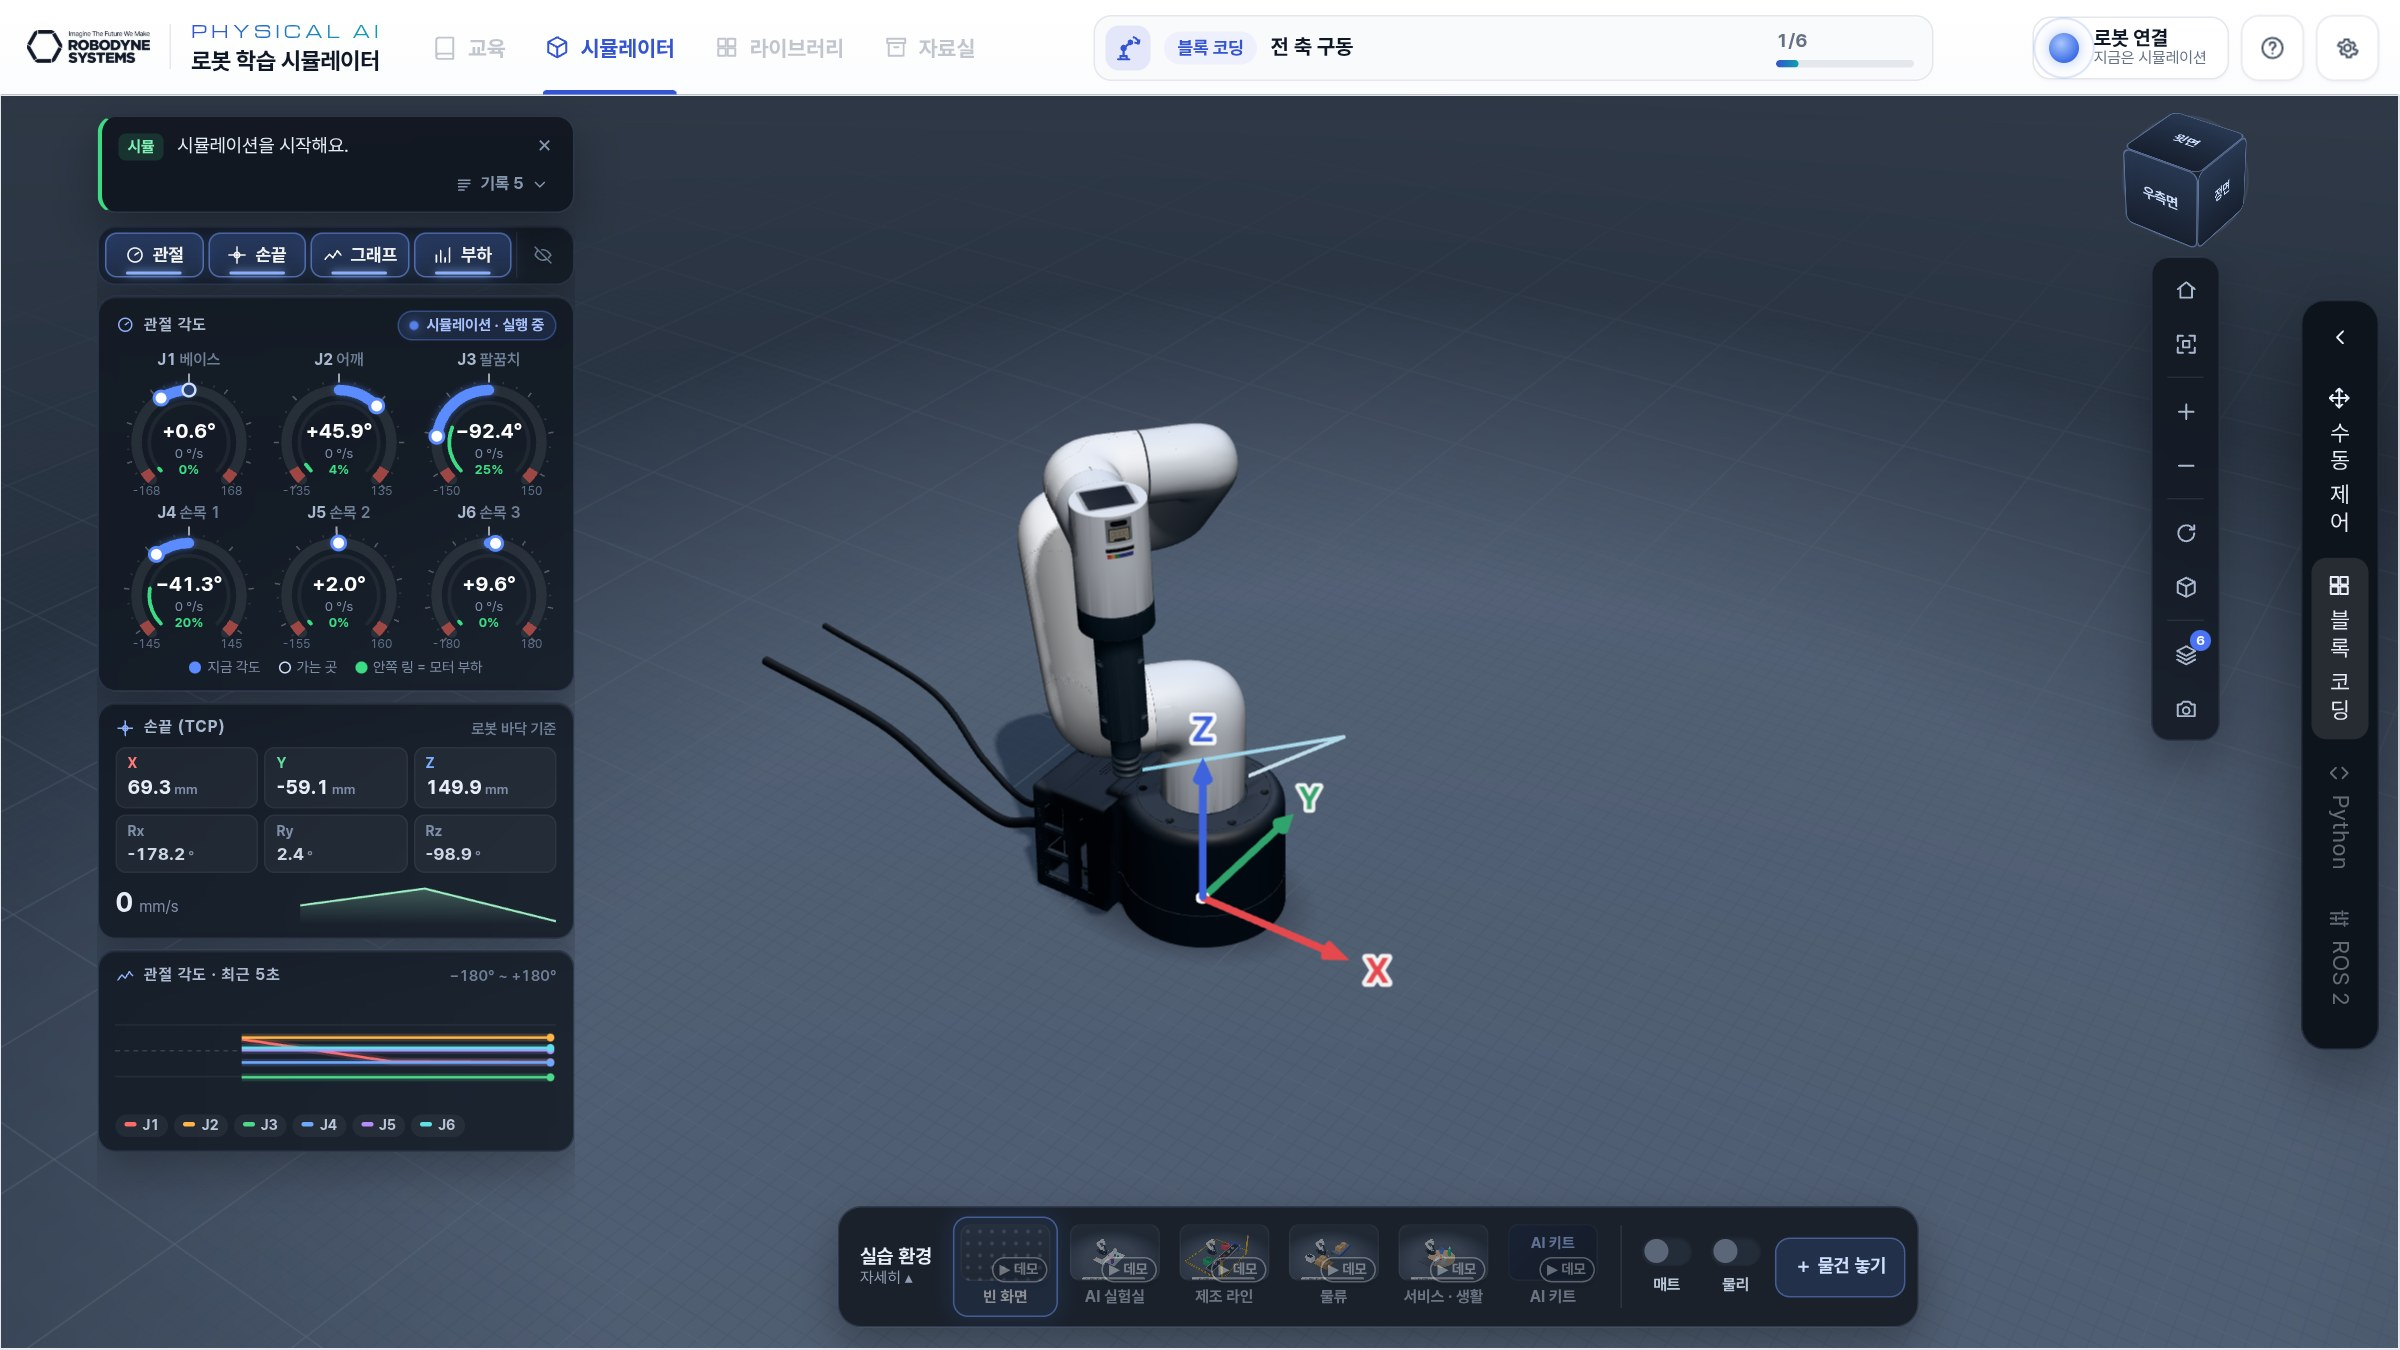
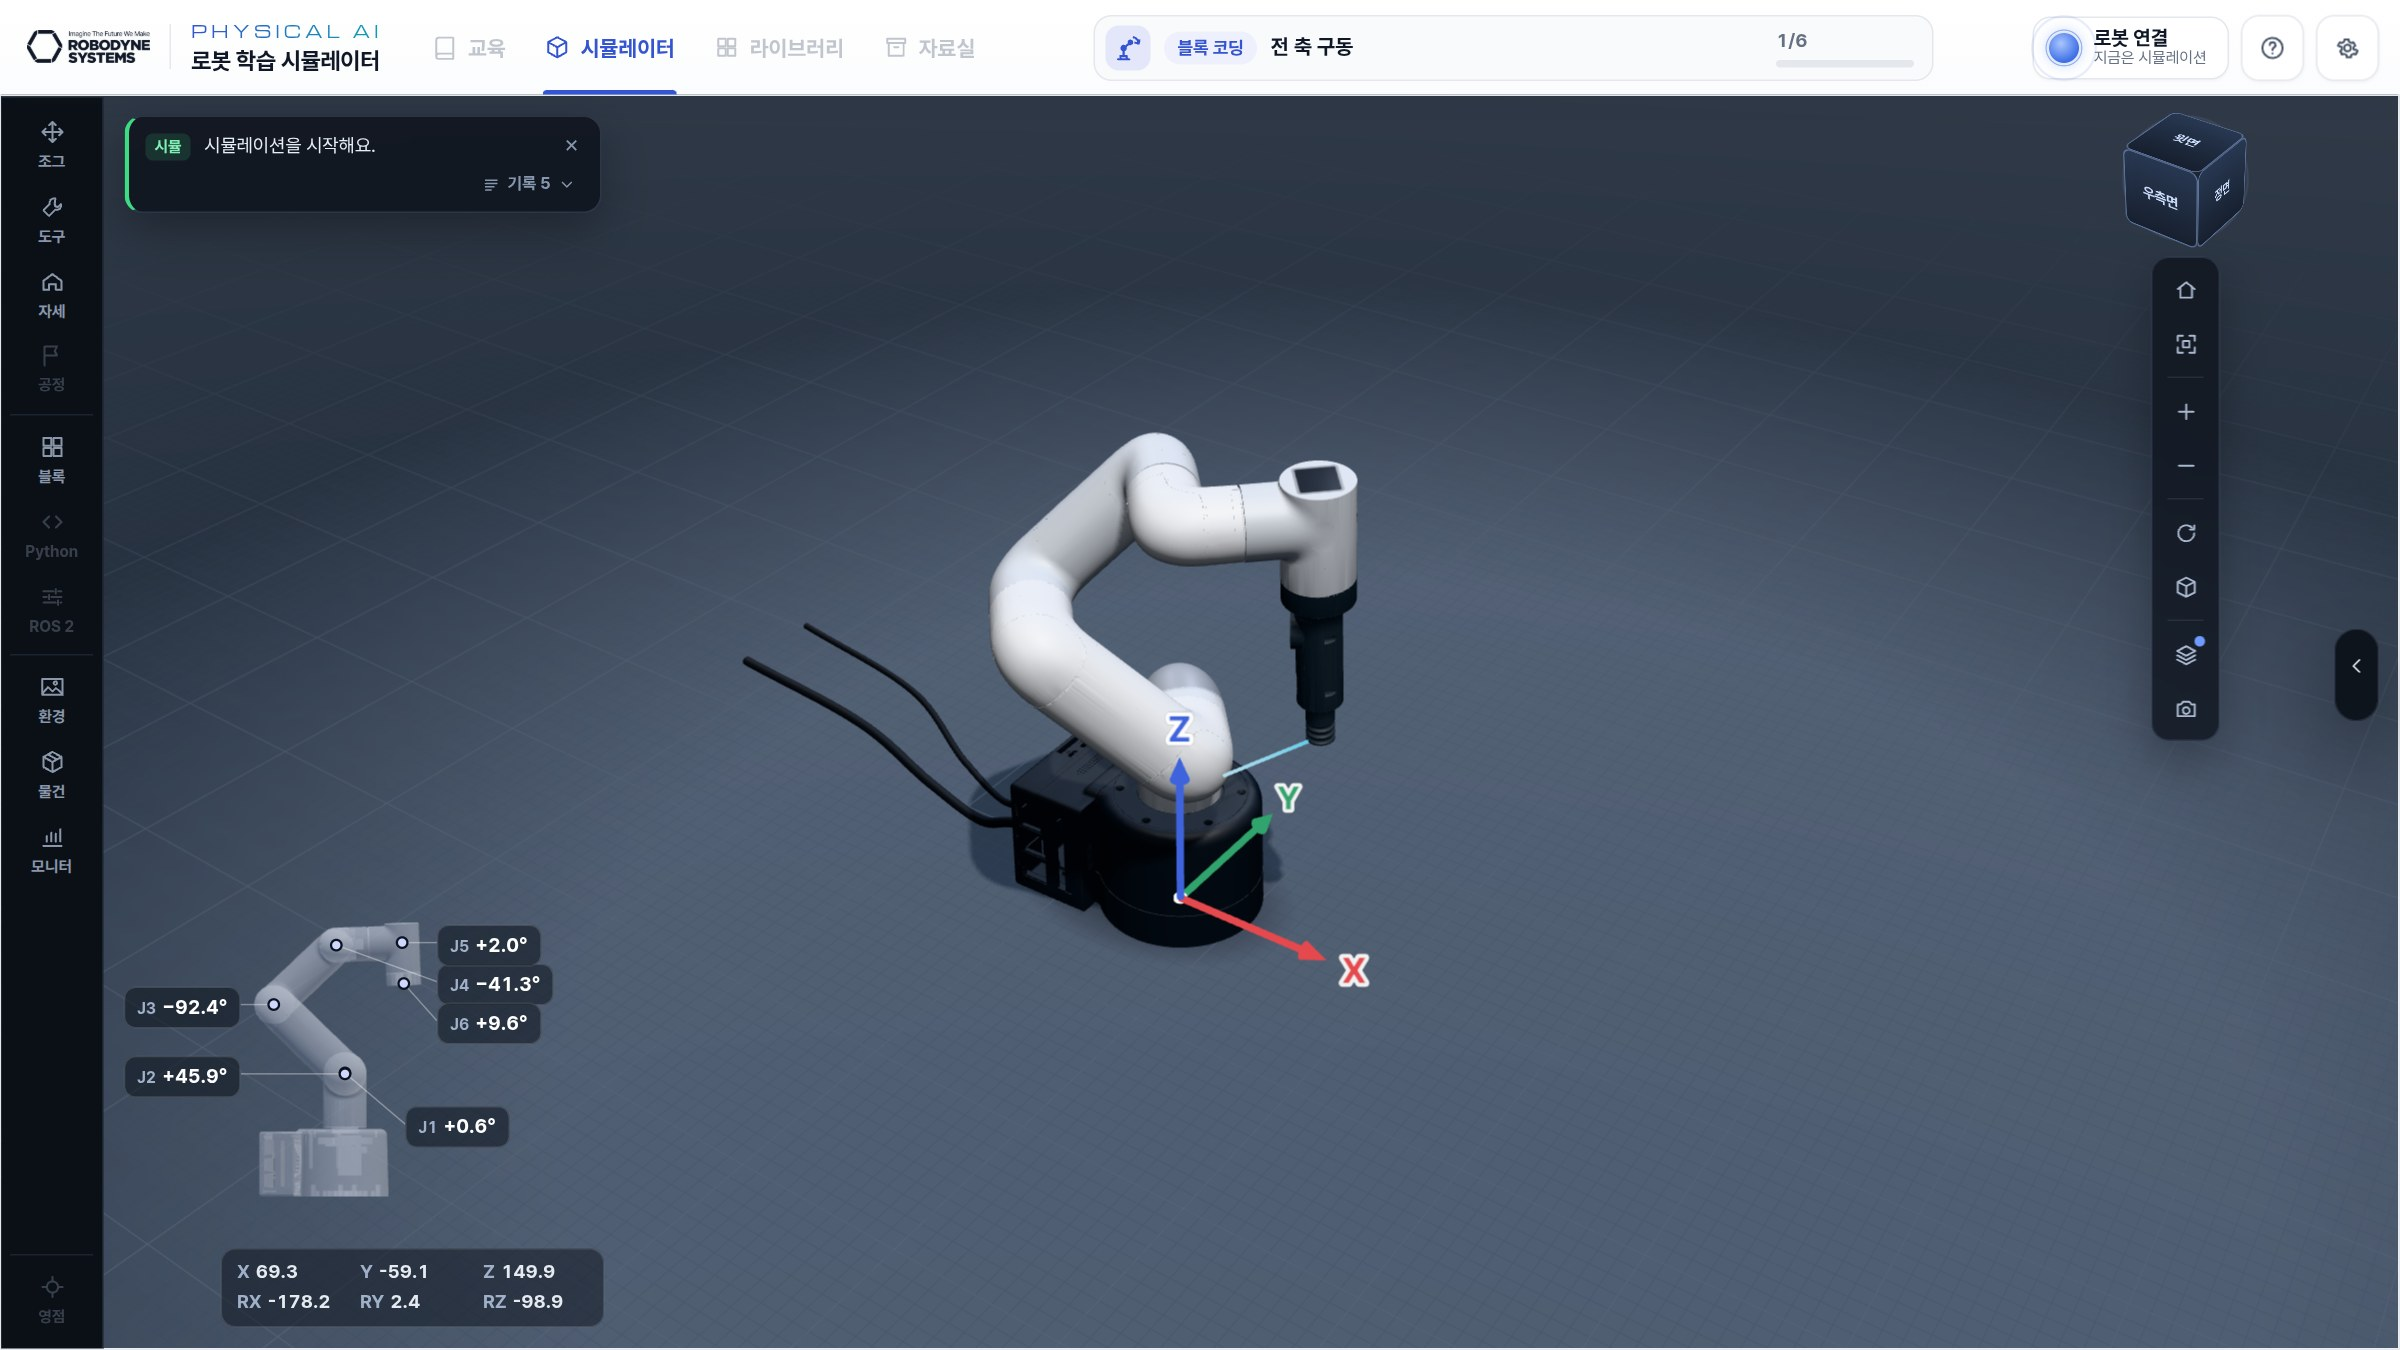
Simulator: the kit camera picture no longer covers the mini arm's angle chips; manual pictures retaken
The camera button moved from the 3D tool bar to the left menu: manual text and marks follow.

Claude-Session: https://claude.ai/code/session_01KrwKgPsQRjzjbDSQEMYCSA

diff --git a/web-typescript/src/ui/simulator/console.module.css b/web-typescript/src/ui/simulator/console.module.css
@@ -8418,8 +8418,6 @@ button.jpRow:hover {
   }
 }
 
-/* Panel tabs in two groups: 공정 · 티칭 (수동 제어, 공정 짜기) and 코딩 (블록 · Python · ROS 2). */
-
 /* The menu bar down the left edge (stage/LeftRail): everything on the 3D view starts right of it. */
 .shell {
   --bar-w: 68px;
@@ -8434,4 +8432,13 @@ button.jpRow:hover {
   display: grid;
   gap: 10px;
   align-content: start;
+}
+
+/* The small camera picture sits bottom left on a wide screen; while the mini arm (and its angle chips)
+   holds that corner, it goes bottom right of the 3D view. */
+@media (min-width: 1000px) and (min-height: 600px) {
+  .shell[data-mini='on'] .pip {
+    left: auto;
+    right: var(--inset-r);
+  }
 }

diff --git a/manuals/simulator/simulator-guide.md b/manuals/simulator/simulator-guide.md
@@ -274,7 +274,7 @@ PC 프로그램은 [자료실] 의 **프로그램** 폴더에 있습니다.
 ## 카메라 화면
 
 **AI 키트** 환경(9장)이나 **카메라 플랜지**(5장)를 쓰면 3D 화면에 작은 카메라 화면이 생깁니다.
-작은 화면이나 도구 막대의 **카메라** 버튼을 누르면 큰 카메라 창이 열립니다.
+작은 화면이나 왼쪽 메뉴의 **[카메라]** 를 누르면 큰 카메라 창이 열립니다.
 
 ![카메라 창 — 카메라를 고르고, [원본 | 영상 처리] 를 바꾸고, [사진 찍기] 로 저장합니다](img/13-camera.jpg){w=85}
 
@@ -671,7 +671,7 @@ PC 프로그램은 [자료실] 의 **프로그램** 폴더에 있습니다.
 
 ::: marks
 1. **작은 카메라 화면** — 키트 카메라가 보는 모습. 누르면 큰 카메라 창(4장)이 열립니다.
-2. **카메라** — 도구 막대에 생긴 카메라 버튼. 큰 카메라 창을 열고 닫습니다.
+2. **카메라** — 왼쪽 메뉴에 생긴 [카메라]. 큰 카메라 창을 열고 닫습니다.
 :::
 
 # 실제 로봇과 연결하기
